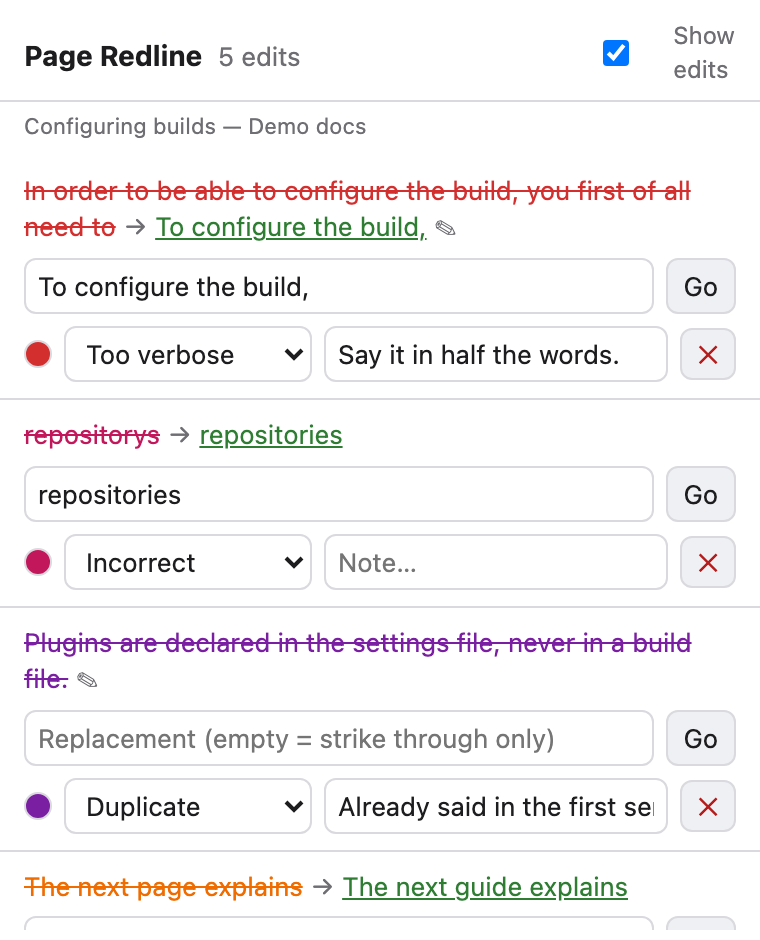
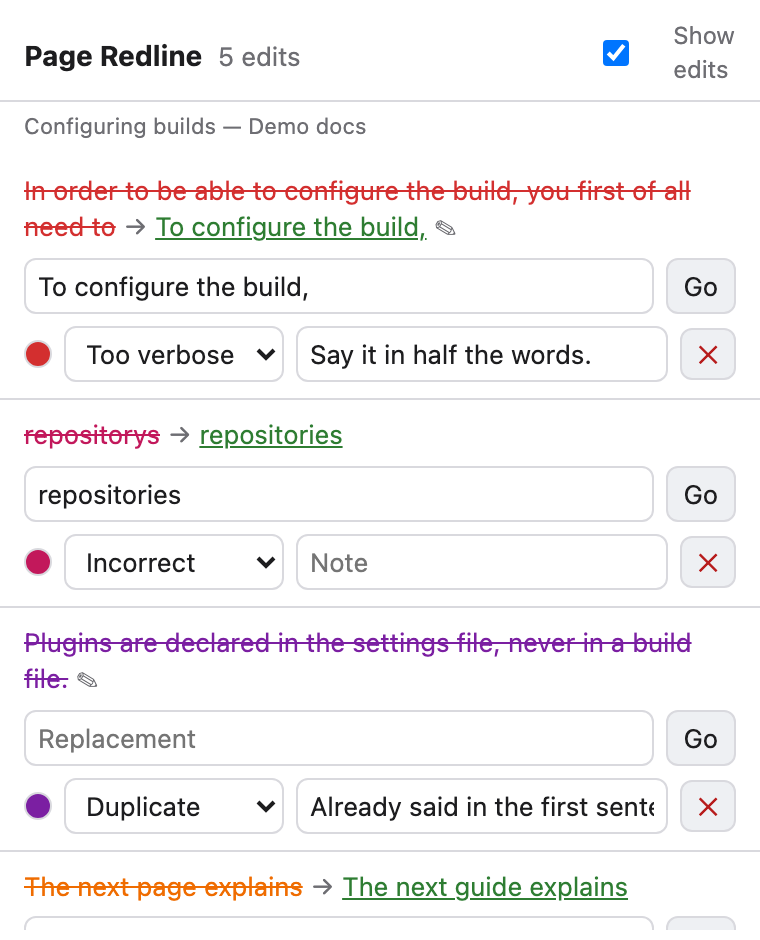
Simpler editor labels
Plain Replacement / Reason / Note labels; the empty-replacement and
optional-note hints move into placeholders, the keyboard hints into
button tooltips, and the hint line is gone. Shorter convert link and
Remove button; 'No reason' instead of a dashed option. Popup
placeholders match.

diff --git a/content.js b/content.js
@@ -393,7 +393,6 @@
         button { font: inherit; padding: 6px 10px; border-radius: 6px; border: 1px solid #b8b8c0; background: #f4f4f6; color: inherit; cursor: pointer; }
         button.primary { background: #2e7d32; border-color: #2e7d32; color: #fff; }
         button.danger { color: #b71c1c; margin-left: auto; }
-        .hint { margin-top: 8px; color: #6e6e73; font-size: 11px; }
         .swatch { width: 14px; height: 14px; border-radius: 50%; flex: none; border: 1px solid rgba(0,0,0,.2); background: transparent; }
         @media (prefers-color-scheme: dark) {
           .card { background: #1f1f23; color: #ededf0; border-color: #45454d; }
@@ -401,30 +400,28 @@
           textarea, input, select { background: #2a2a30; border-color: #55555e; }
           button { background: #2e2e35; border-color: #55555e; }
           button.danger { color: #ff8a80; }
-          .hint { color: #9a9aa3; }
         }
       </style>
       <div class="card" role="dialog" aria-label="Page Redline edit">
         <div class="orig"></div>
         <div class="repl-block">
-          <label>Replacement <span style="font-weight:400;color:#6e6e73">(leave empty to just strike through)</span></label>
-          <textarea rows="2" class="repl" placeholder="New text…"></textarea>
+          <label>Replacement</label>
+          <textarea rows="2" class="repl" placeholder="Optional"></textarea>
         </div>
         <div class="reason-block">
           <label>Reason</label>
           <div style="display:flex;gap:6px;align-items:center"><span class="swatch"></span><select class="reason"></select></div>
         </div>
         <div class="note-block">
-          <label class="note-label">Note</label>
-          <textarea rows="1" class="note" placeholder="Optional note…"></textarea>
+          <label>Note</label>
+          <textarea rows="1" class="note"></textarea>
         </div>
         <div class="convert"><a class="convert-link"></a></div>
         <div class="row">
-          <button class="primary save">Save</button>
-          <button class="close">Close</button>
-          <button class="danger remove">Remove mark</button>
+          <button class="primary save" title="Enter">Save</button>
+          <button class="close" title="Esc">Close</button>
+          <button class="danger remove">Remove</button>
         </div>
-        <div class="hint">Enter saves · Esc closes · click any mark to edit it later</div>
       </div>`;
     shadow.querySelector('.reason').addEventListener('change', updateSwatch);
     shadow.querySelector('.save').addEventListener('click', saveFromEditor);
@@ -445,7 +442,7 @@
     const sel = shadow.querySelector('.reason');
     sel.textContent = '';
     const none = document.createElement('option');
-    none.value = ''; none.textContent = '— no reason —';
+    none.value = ''; none.textContent = 'No reason';
     sel.appendChild(none);
     for (const r of settings.reasons) {
       const o = document.createElement('option');
@@ -501,9 +498,8 @@
     const note = isNote(edit);
     const card = shadow.querySelector('.card');
     card.classList.toggle('note-mode', note);
-    shadow.querySelector('.note-label').textContent = note ? 'Note' : 'Note (optional)';
-    shadow.querySelector('.convert-link').textContent = note ? 'Strike this text through instead' : 'Make this a note only';
-    shadow.querySelector('.remove').textContent = note ? 'Remove note' : 'Remove mark';
+    shadow.querySelector('.note').placeholder = note ? '' : 'Optional';
+    shadow.querySelector('.convert-link').textContent = note ? 'Strike through instead' : 'Note only';
     shadow.querySelector('.orig').textContent = edit.exact;
     shadow.querySelector('.repl').value = edit.replacement || '';
     fillReasonSelect(edit.reason || '');

diff --git a/popup.js b/popup.js
@@ -73,7 +73,7 @@ function render() {
     const edit = document.createElement('div');
     edit.className = 'edit';
     const repl = document.createElement('input');
-    repl.placeholder = 'Replacement (empty = strike through only)';
+    repl.placeholder = 'Replacement';
     repl.value = e.replacement || '';
     if (isNote) repl.hidden = true;
     repl.addEventListener('change', () => update(e.id, { replacement: repl.value }));
@@ -92,7 +92,7 @@ function render() {
     swatch.className = 'swatch';
     const sel = document.createElement('select');
     const paint = () => { const r = reasonOf(sel.value); swatch.style.background = r ? r.color : 'transparent'; };
-    const none = document.createElement('option'); none.value = ''; none.textContent = '— no reason —'; sel.appendChild(none);
+    const none = document.createElement('option'); none.value = ''; none.textContent = 'No reason'; sel.appendChild(none);
     for (const r of state.reasons) {
       const o = document.createElement('option'); o.value = r.id; o.textContent = r.label; sel.appendChild(o);
     }
@@ -103,7 +103,7 @@ function render() {
     paint();
     sel.addEventListener('change', () => { paint(); update(e.id, { reason: sel.value }); });
     const note = document.createElement('input');
-    note.placeholder = isNote ? 'Note text…' : 'Note…';
+    note.placeholder = 'Note';
     note.value = e.note || '';
     note.addEventListener('change', () => update(e.id, { note: note.value }));
     note.addEventListener('keydown', (ev) => { if (ev.key === 'Enter') note.blur(); });

diff --git a/README.md b/README.md
@@ -98,8 +98,8 @@ to be signed through addons.mozilla.org (free, "unlisted" self-distribution); th
    strikethrough and note, so **Alt+Shift+M twice** turns the new mark into a note. Shortcuts
    can be changed at `chrome://extensions/shortcuts` or, in Firefox, under *Manage Extension
    Shortcuts* on the add-ons page.
-2. In the editor that opens, type the replacement or the note, pick a reason.
-   **Enter** saves, **Esc** closes.
+2. In the card that opens, type the replacement or the note and pick a reason. An empty
+   replacement keeps just the strikethrough. **Enter** saves, **Esc** closes.
 3. Click any mark, or the ✎ badge after it, at any time to edit or remove it.
 4. Open the toolbar popup for the full list. Click an edit's text to jump to it on the
    page; use **Copy Markdown** to paste the list into an issue or a message:
